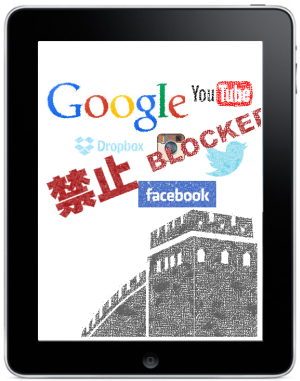
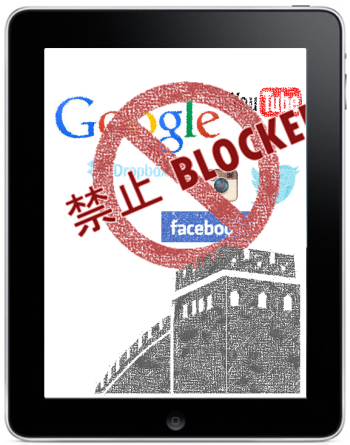
Content Updates from 04/08. Image update for lead hero (introduction)

diff --git a/partials/home.html b/partials/home.html
@@ -123,19 +123,18 @@
                     <hr class="section-heading-spacer">
                     <div class="clearfix"></div>
                     <h2 class="section-heading">Build your brand in China</h2>
-                    <p class="lead">From targeting the right audience to fulfilling sales and engaging customers, CNify has the tools and and services you need to help you every step of the way.</p>
+                    <p class="lead">From targeting the right audience to fulfilling sales and engaging customers, CNify has the tools and and services you need market effectively in China.</p>
 					<p class="lead"></p>
 					
                 </div>
                 <div class="col-lg-5 col-lg-offset-2 col-sm-6">
                     <div class="hero-feature">
 						<div class="thumbnail">
-							<img src="img/example_1.jpg" alt="Introductory translation for businesses getting established in China">
+							<img src="img/introduction.jpg" alt="Introductory translation for businesses getting established in China">
 							<div class="caption">
 								<h3>Start Here: Get Introduced</h3>
-								<p>Introduce your brand to a Chinese audience through an introduction translation from CNify. We will translate, localize and even develop content about your brand, tailored for a Chinese market. Start off on the right foot by effectively telling your brand story to China.</p>
-								<!--<p>CNify can develop introductory content targeted specifically for your audience. Kick things off right with information and content that resonates with your target audience. We don't just tell them what is your brand, we explain why they should become your customer.</p> -->
-								<button class="btn btn-CNify1"><a href="/introductory-translation">Learn More</a></button>
+								<p>Showcase your brand with Chinese language content tailored for your market. CNify starts things off on the right foot by effectively telling your brand story to a Chinese audience.</p>
+								<button class="btn btn-CNify1"><a ng-href="/introductory-translation">Learn More</a></button>
 							</div>
 						</div>
 					</div>
@@ -149,7 +148,7 @@
 						<img src="img/step_sell_to_china.png" alt="Selling to Chinese consumers">
 						<div class="caption">
 							<h3>Selling to China</h3>
-							<p>Foreign brands have a strong appeal to Chinese consumers. See the ingredients it takes to acquire Chinese customers.</p><br>
+							<p>Foreign brands have a strong appeal to Chinese consumers. See the ingredients it takes to acquire Chinese customers.</p>
 						</div>
 						<div class="caption-bottom">
 							<button class="btn btn-CNify1"><a ng-href="#/sell-to-china">Learn More</a></button>
@@ -162,10 +161,10 @@
 						<img src="img/step_go_local.png" alt="Localization in China">
 						<div class="caption">
 							<h3>Go Local</h3>
-							<p>“When in Rome, do as the Romans." In China, being local means effectively utilizing the vast ecosystem of native Chinese online platforms</p>
+							<p>In China, being local means being on China's	native social media and internet platforms. CNify enables brands to be local.</p>
 						</div>
 						<div class="caption-bottom">
-							<button class="btn btn-CNify1"><a href="#/go-local">Learn More</a></button>
+							<button class="btn btn-CNify1"><a ng-href="#/go-local">Learn More</a></button>
 						</div>
 					</div>
 				</div>
@@ -175,10 +174,10 @@
 						<img src="img/step_footprint_china.png" alt="Footprint in the Chinese market">
 						<div class="caption">
 							<h3>Market Presence</h3>
-							<p>CNify extends your brand footprint in China. We have in-market presence in China and can effectively serve your customers on your behalf.</p>
+							<p>CNify extends your brand footprint with in-market presence. Online and offline, we fulfill Chinese customer demands.</p>
 						</div>
 						<div class="caption-bottom">
-							<button class="btn btn-CNify1"><a href="#/market-presence">Learn More</a></button>
+							<button class="btn btn-CNify1"><a ng-href="#/market-presence">Learn More</a></button>
 						</div>
 					</div>
 				</div>
@@ -188,10 +187,10 @@
 						<img src="img/step_partnership_china.png" alt="Finding the right Chinese partner">
 						<div class="caption">
 							<h3>Partnership</h3>
-							<p>The key to market success is having successful partnerships. CNify helps your brand succeed by supporting and advocating for your brand in China.</p>
+							<p>The key to market success is having successful partnerships. CNify helps your brand work with the right partners in China.</p>
 						</div>
 						<div class="caption-bottom">
-							<button class="btn btn-CNify1"><a href="#/partnership">Learn More</a></button>
+							<button class="btn btn-CNify1"><a ng-href="#/partnership">Learn More</a></button>
 						</div>
 					</div>
 				</div>

diff --git a/partials/go-local.html b/partials/go-local.html
@@ -25,15 +25,16 @@
 					<div class="col-xs-12 col-sm-6 col-md-8">
 						<div class="clearfix"></div>
 						<h2 class="section-heading">When in Rome...</h2>
-						<p class="lead">Just as the saying goes, what can brands do to appeal locally?</p>
-						<p>Being local in China means not just speaking the language, but being enmeshed in the culture of your target market. Understand your consumer is the first step. CNify has the insights to help you navigate and position your brand to sell to your most promising customer base. Our background and expertise in China gives your brand the opportunities it needs to avoid common stumbling blocks when approaching this market.</p>
+						<p class="lead">Just as the saying goes, what can brands do to create local appeal?</p>
+						<p>Being local in China means not just speaking the language, but being enmeshed in the culture of your target market. Understand your consumer is the first step. CNify has the insights to help you navigate and position your brand to sell to your most promising customer base.</p>
 					</div>
 				</div>
 
 				<div class="row">
 					<div class="col-md-4 portfolio-item rgt-border">
 						<h2 class="section-heading">Speak the Language...</h2>
-						<p>...but know the culture. Even more important than having correct language translation, is incorporating the immense complexities of Chinese culture. With a long tradition that spans over 5,000 years, this culture very much defines how business is conducted today. A culturally competent brand is one that yields customers. Not heeding to China’s cultural norms presents risks and possibly failure to gain traction. CNify works with brands to orient marketing towards Chinese best cultural practices so your message is clear and meets the demands and expectations of your customers.</p> 
+						<p class="lead">...but know the culture.</p>
+						<p>	Even more important than having correct language translation, is incorporating the immense complexities of Chinese culture. With a long tradition that spans over 5,000 years, this culture very much defines how business is conducted today. A culturally competent brand is one that yields customers. Not heeding to China’s cultural norms presents risks and possibly failure to gain traction. CNify works with brands to orient marketing towards Chinese best cultural practices so your message is clear and meets the demands and expectations of your customers.</p> 
 					</div>
 					<div class="col-md-4 portfolio-item rgt-border">
 						<h2 class="section-heading">Content that Resonates</h2>

diff --git a/templates/header.html b/templates/header.html
@@ -8,16 +8,16 @@
                 <span class="icon-bar"></span>
             </button>
             <!-- You'll want to use a responsive image option so this logo looks good on devices - I recommend using something like retina.js (do a quick Google search for it and you'll find it) -->
-            <a class="navbar-brand" href="#/"></a>
+            <a class="navbar-brand" a ng-href="#/"></a>
         </div>
 
         <!-- Collect the nav links, forms, and other content for toggling -->
         <div class="collapse navbar-collapse navbar-ex1-collapse">
             <ul class="nav navbar-nav navbar-right navbar-ex1-collapse">
-				<li><a href="#/">Home</a></li>
-				<li><a href="#/CNify-process">Working with CNify</a></li>	
-				<li><a href="#/about">About</a></li>			
-				<li><a href="#/contact">Contact</a></li>
+				<li><a ng-href="#/">Home</a></li>
+				<li><a ng-href="#/CNify-process">Working with CNify</a></li>	
+				<li><a ng-href="#/about">About</a></li>			
+				<li><a ng-href="#/contact">Contact</a></li>
 			</ul>
 			<div class="login">
 				<div ng-controller="ModalRegisterCtrl"><button class="btn btn-CNify1" ng-click="open()">Login/Register</button></div>

diff --git a/templates/footer.html b/templates/footer.html
@@ -27,19 +27,19 @@
                 <div class="col-lg-12">
                     <ul class="list-inline">
                         <li>
-                            <a href="#">Home</a>
+                            <a ng-href="#/">Home</a>
                         </li>
                         <li class="footer-menu-divider">&sdot;</li>
 						<li>
-                            <a href="#/CNify-process">Working with CNify</a>
+                            <a ng-href="#/CNify-process">Working with CNify</a>
                         </li>
                         <li class="footer-menu-divider">&sdot;</li>
                         <li>
-                            <a href="#about">About</a>
+                            <a ng-href="#/about">About</a>
                         </li>
                         <li class="footer-menu-divider">&sdot;</li>
                         <li>
-                            <a href="#contact">Contact</a>
+                            <a ng-href="#/contact">Contact</a>
                         </li>
                     </ul>
 					<div class="login">
